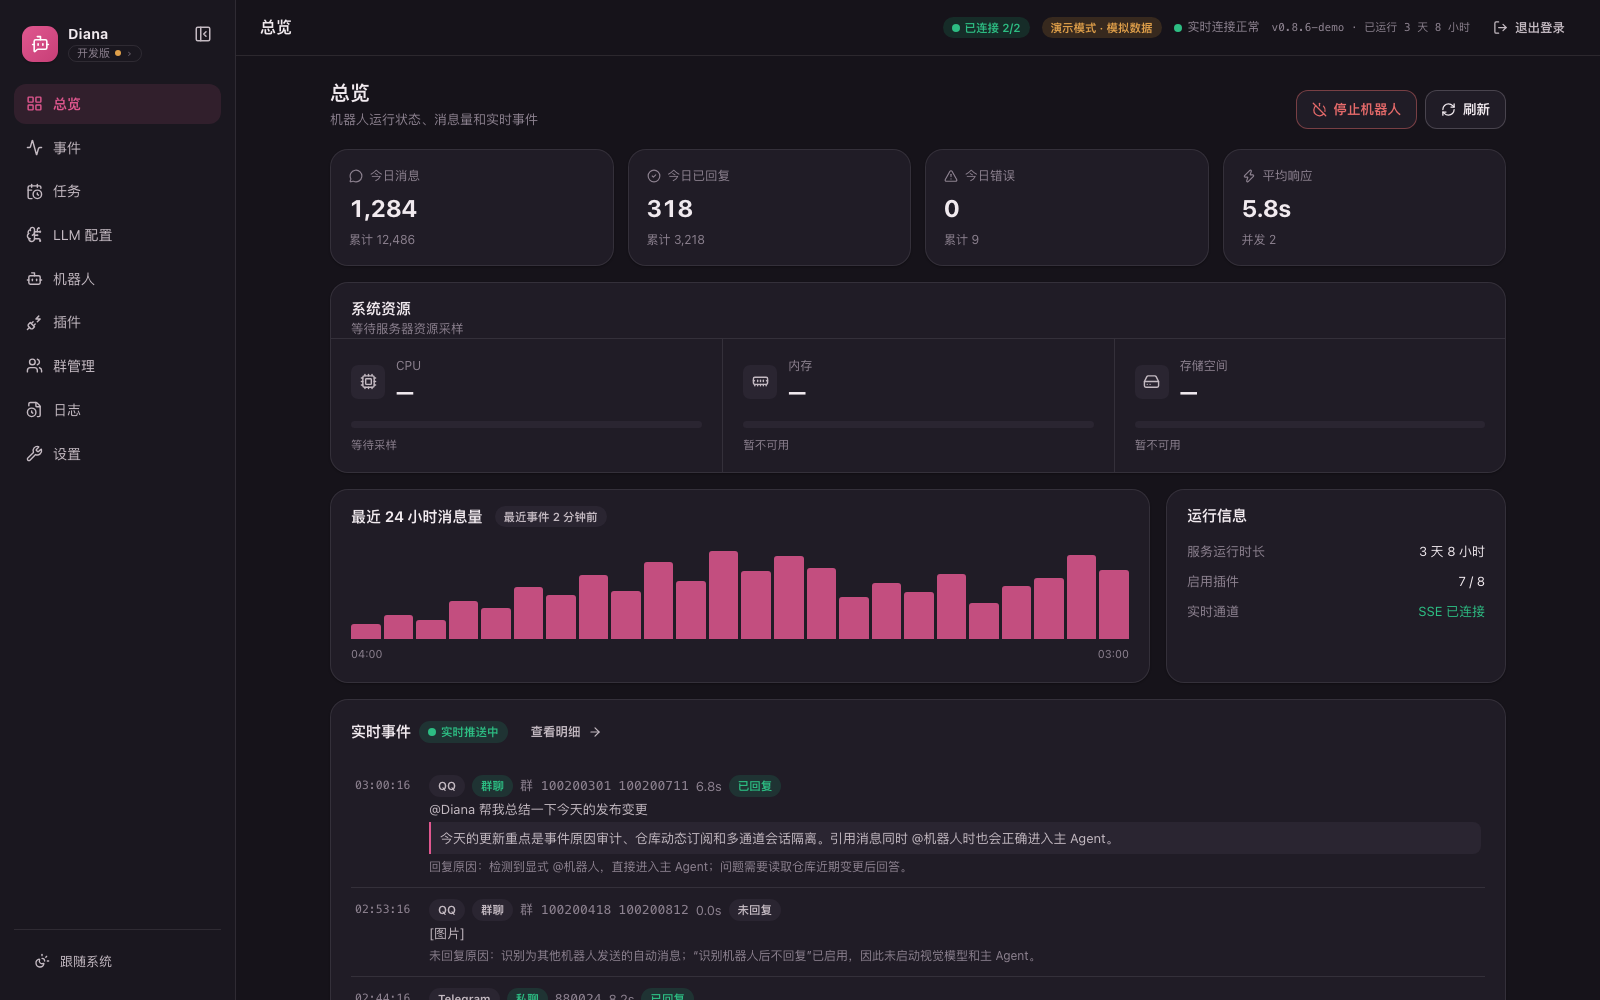
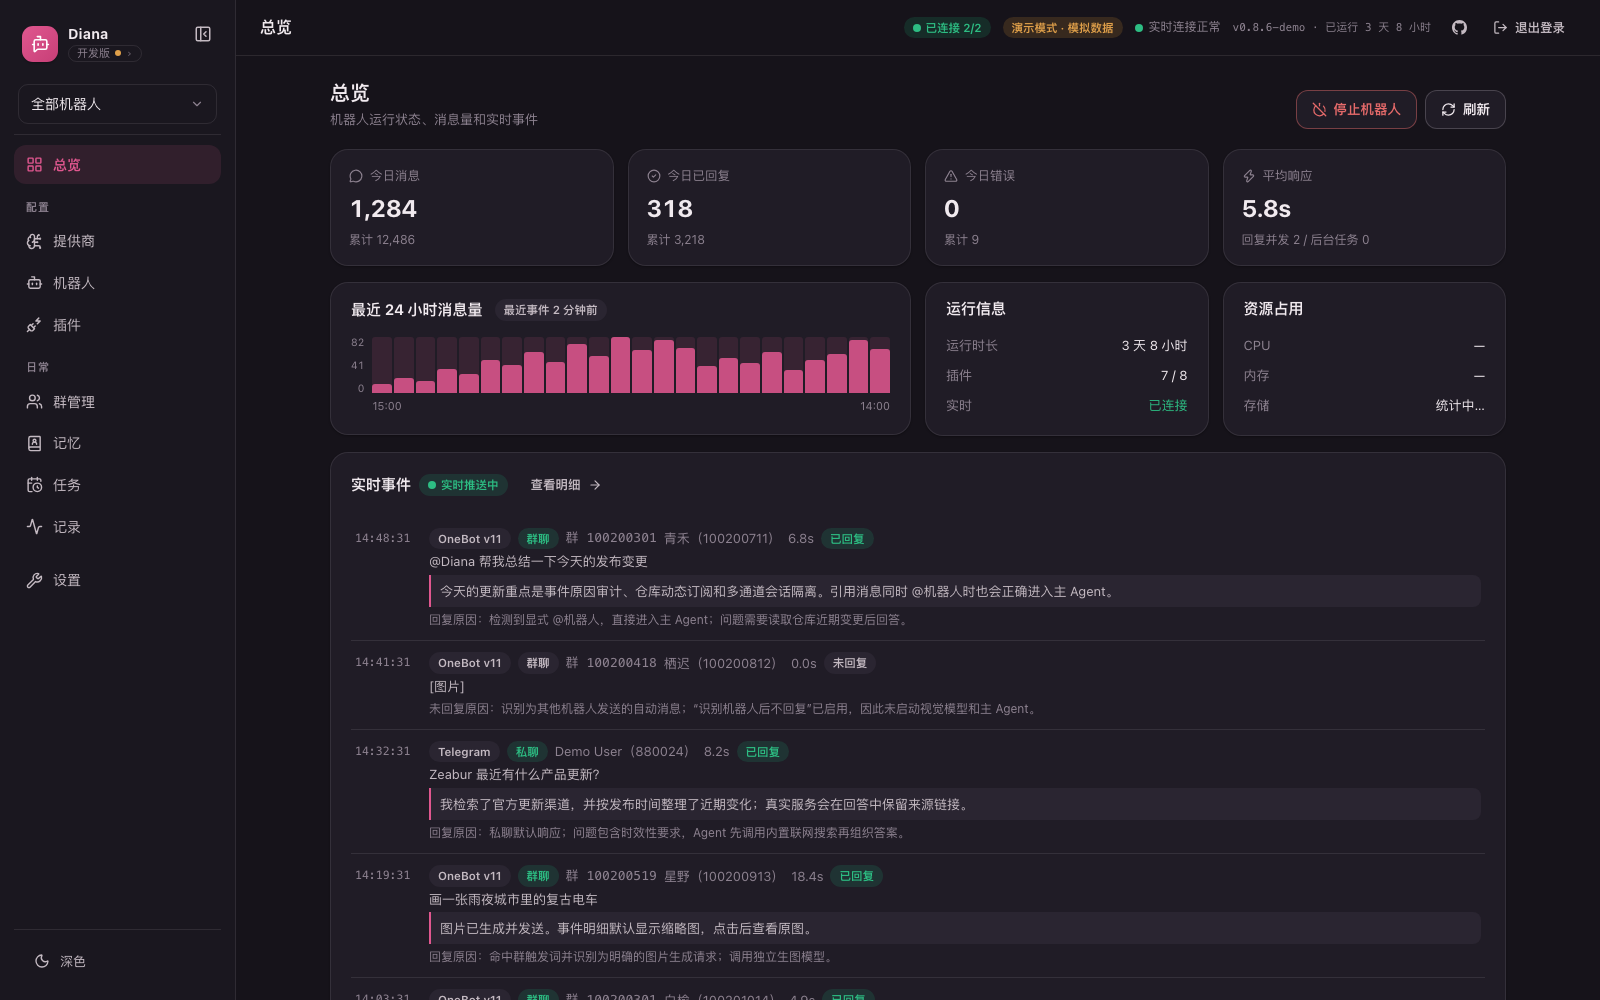
feat(docs): 控制台截图跟随主题，并更新到当前界面
浅色页面配深色截图很突兀。<picture> 的 prefers-color-scheme 只认系统偏好、
认不出这里的手动切换，所以按解析后的主题换 src。

顺带发现原来那张截图已经过时：侧栏还写着「LLM 配置」，而界面早已改名为
「提供商」，分区也不一样了。深浅两张都用当前 UI 在演示模式下重拍，同为
1600x1000、同一视角，切换时不会跳动。

img 上补了 width/height，避免图片加载前后页面回流。

diff --git a/docs/index.html b/docs/index.html
@@ -291,7 +291,14 @@
 
 <div class="wrap shot">
   <figure>
-    <img src="./assets/diana-webui-overview.png" alt="Diana 控制台总览：通道状态、消息统计、系统资源与实时事件流" loading="lazy" />
+    <!-- 截图跟着主题走。浅色页面配深色截图会很突兀，而 <picture> 的
+         prefers-color-scheme 只认系统偏好，认不出这里的手动切换，所以换 src。 -->
+    <img
+      id="console-shot"
+      src="./assets/diana-webui-overview.png"
+      alt="Diana 控制台总览：通道状态、消息统计、系统资源与实时事件流"
+      width="1600" height="1000" loading="lazy"
+    />
     <figcaption>控制台总览：通道状态、消息统计、系统资源与实时事件流</figcaption>
   </figure>
 </div>
@@ -502,11 +509,16 @@ irm https://raw.githubusercontent.com/SuInk/Diana/main/scripts/install.ps1 | iex
       light: svg('<circle cx="12" cy="12" r="4"/><path d="M12 2v2M12 20v2M4.9 4.9l1.4 1.4M17.7 17.7l1.4 1.4M2 12h2M20 12h2M4.9 19.1l1.4-1.4M17.7 6.3l1.4-1.4"/>')
     };
     const labels = { system: "跟随系统", dark: "深色", light: "浅色" };
-    window.DianaTheme.subscribe((preference) => {
+    const shot = document.getElementById("console-shot");
+    window.DianaTheme.subscribe((preference, resolved) => {
       icon.innerHTML = glyphs[preference];
       const text = `主题：${labels[preference]}（点击切换）`;
       button.setAttribute("title", text);
       button.setAttribute("aria-label", text);
+      shot.src =
+        resolved === "light"
+          ? "./assets/diana-webui-overview-light.png"
+          : "./assets/diana-webui-overview.png";
     });
     button.addEventListener("click", () => window.DianaTheme.cycle());
   })();
